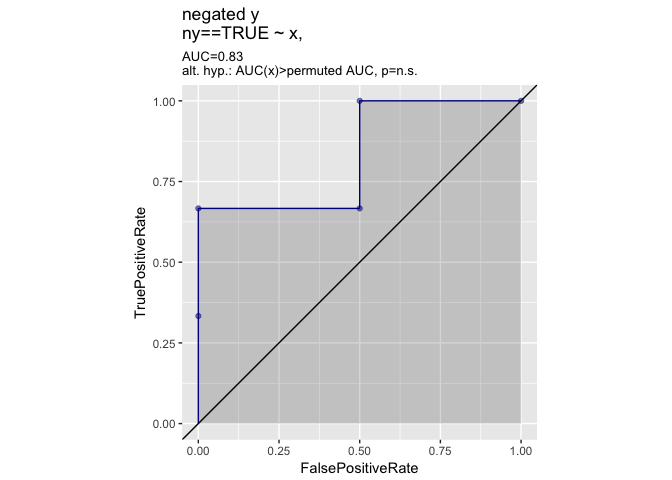
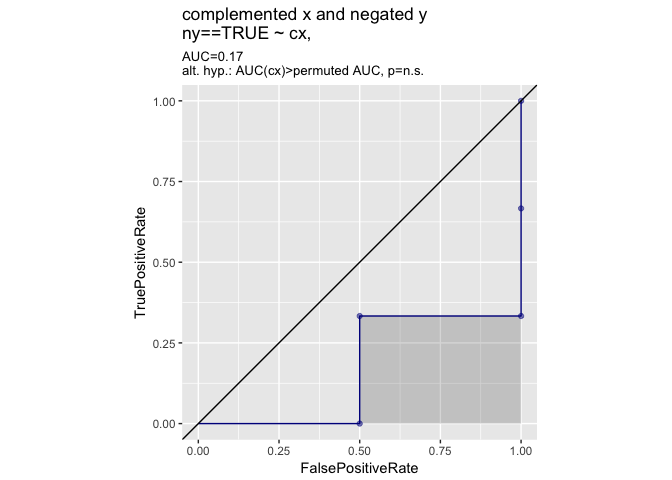
better run

diff --git a/sigr/auc.md b/sigr/auc.md
@@ -67,24 +67,6 @@ The effect
 We are looking at the facts that `AUC(prediction, outcome) + AUC(1-prediction, outcome) == 1` and `AUC(prediction, outcome) + AUC(prediction, !outcome) == 1`.
 
 ``` r
-plotlyROC <- function(predictions, target, title) {
-  rocFrame <- WVPlots::graphROC(predictions, target)
-  plot_ly(rocFrame$pointGraph, x = ~FalsePositiveRate, y = ~TruePositiveRate, 
-        type='scatter', mode='lines+markers', hoverinfo= 'text', 
-        text= ~ paste('threshold:', model, 
-                      '</br>FalsePositiveRate:', FalsePositiveRate,
-                      '</br>TruePositiveRate:', TruePositiveRate)) %>%
-    layout(title= title)
-}
-
-plotlyROC(d$x, d$y, 'interactive version of base plot (when rendered to html)')
-```
-
-<!--html_preserve-->
-
-<script type="application/json" data-for="htmlwidget-8a7b5a583a69569c54dd">{"x":{"layout":{"margin":{"b":40,"l":60,"t":25,"r":10},"title":"interactive version of base plot (when rendered to html)","xaxis":{"domain":[0,1],"title":"FalsePositiveRate"},"yaxis":{"domain":[0,1],"title":"TruePositiveRate"},"hovermode":"closest"},"source":"A","config":{"modeBarButtonsToAdd":[{"name":"Collaborate","icon":{"width":1000,"ascent":500,"descent":-50,"path":"M487 375c7-10 9-23 5-36l-79-259c-3-12-11-23-22-31-11-8-22-12-35-12l-263 0c-15 0-29 5-43 15-13 10-23 23-28 37-5 13-5 25-1 37 0 0 0 3 1 7 1 5 1 8 1 11 0 2 0 4-1 6 0 3-1 5-1 6 1 2 2 4 3 6 1 2 2 4 4 6 2 3 4 5 5 7 5 7 9 16 13 26 4 10 7 19 9 26 0 2 0 5 0 9-1 4-1 6 0 8 0 2 2 5 4 8 3 3 5 5 5 7 4 6 8 15 12 26 4 11 7 19 7 26 1 1 0 4 0 9-1 4-1 7 0 8 1 2 3 5 6 8 4 4 6 6 6 7 4 5 8 13 13 24 4 11 7 20 7 28 1 1 0 4 0 7-1 3-1 6-1 7 0 2 1 4 3 6 1 1 3 4 5 6 2 3 3 5 5 6 1 2 3 5 4 9 2 3 3 7 5 10 1 3 2 6 4 10 2 4 4 7 6 9 2 3 4 5 7 7 3 2 7 3 11 3 3 0 8 0 13-1l0-1c7 2 12 2 14 2l218 0c14 0 25-5 32-16 8-10 10-23 6-37l-79-259c-7-22-13-37-20-43-7-7-19-10-37-10l-248 0c-5 0-9-2-11-5-2-3-2-7 0-12 4-13 18-20 41-20l264 0c5 0 10 2 16 5 5 3 8 6 10 11l85 282c2 5 2 10 2 17 7-3 13-7 17-13z m-304 0c-1-3-1-5 0-7 1-1 3-2 6-2l174 0c2 0 4 1 7 2 2 2 4 4 5 7l6 18c0 3 0 5-1 7-1 1-3 2-6 2l-173 0c-3 0-5-1-8-2-2-2-4-4-4-7z m-24-73c-1-3-1-5 0-7 2-2 3-2 6-2l174 0c2 0 5 0 7 2 3 2 4 4 5 7l6 18c1 2 0 5-1 6-1 2-3 3-5 3l-174 0c-3 0-5-1-7-3-3-1-4-4-5-6z"},"click":"function(gd) { \n        // is this being viewed in RStudio?\n        if (location.search == '?viewer_pane=1') {\n          alert('To learn about plotly for collaboration, visit:\\n https://cpsievert.github.io/plotly_book/plot-ly-for-collaboration.html');\n        } else {\n          window.open('https://cpsievert.github.io/plotly_book/plot-ly-for-collaboration.html', '_blank');\n        }\n      }"}],"modeBarButtonsToRemove":["sendDataToCloud"]},"data":[{"x":[0.333333333333333,0.666666666666667,0.666666666666667,1,1],"y":[0,0,0.5,0.5,1],"mode":"lines+markers","hoverinfo":"text","text":["threshold: 0.948304814752191 \u003c/br>FalsePositiveRate: 0.333333333333333 \u003c/br>TruePositiveRate: 0","threshold: 0.753800751408562 \u003c/br>FalsePositiveRate: 0.666666666666667 \u003c/br>TruePositiveRate: 0","threshold: 0.652560597518459 \u003c/br>FalsePositiveRate: 0.666666666666667 \u003c/br>TruePositiveRate: 0.5","threshold: 0.586745094507933 \u003c/br>FalsePositiveRate: 1 \u003c/br>TruePositiveRate: 0.5","threshold: 0.384469341253862 \u003c/br>FalsePositiveRate: 1 \u003c/br>TruePositiveRate: 1"],"type":"scatter","line":{"fillcolor":"rgba(31,119,180,1)","color":"rgba(31,119,180,1)"},"xaxis":"x","yaxis":"y"}],"base_url":"https://plot.ly"},"evals":["config.modeBarButtonsToAdd.0.click"],"jsHooks":[]}</script>
-<!--/html_preserve-->
-``` r
 WVPlots::ROCPlot(d,'x','y',TRUE,'base plot')
 ```
 
@@ -101,6 +83,12 @@ WVPlots::ROCPlot(d,'x','ny',TRUE,'negated y')
 ```
 
 ![](auc_files/figure-markdown_github/WVPlots-3.png)
+
+``` r
+WVPlots::ROCPlot(d,'cx','ny',TRUE,'complemented x and negated y')
+```
+
+![](auc_files/figure-markdown_github/WVPlots-4.png)
 
 ##### `ModelMetrics`
 
@@ -247,37 +235,37 @@ dTime <- mkData(100)
 ModelMetrics::auc(dTime$y, dTime$x)
 ```
 
-    ## [1] 0.4248
+    ## [1] 0.468888
 
 ``` r
 sigr::calcAUC(dTime$x, dTime$y)
 ```
 
-    ## [1] 0.4248
+    ## [1] 0.468888
 
 ``` r
 aucROCR(dTime$x, dTime$y)
 ```
 
-    ## [1] 0.4248
+    ## [1] 0.468888
 
 ``` r
 aucAUC(dTime$x, dTime$y)
 ```
 
-    ## [1] 0.4248
+    ## [1] 0.468888
 
 ``` r
 aucCaret(dTime$x, dTime$y)
 ```
 
-    ## [1] 0.4248
+    ## [1] 0.468888
 
 ``` r
 pROC::auc(y~x, dTime, direction= '<')
 ```
 
-    ## Area under the curve: 0.4248
+    ## Area under the curve: 0.4689
 
 ``` r
 sizes <- 2^(7:16)
@@ -316,7 +304,7 @@ base_breaks <- function(n = 10){
 }
 
 ggplot(plt, aes(x=size, color=expr, fill=expr)) +
-  geom_point(aes(y=meanTimeS)) +
+  geom_point(aes(y=q2)) +
   geom_line(aes(y=q2)) +
   geom_ribbon(aes(ymin=q1, ymax=q3), alpha=0.3, color=NA) +
   scale_x_log10(breaks= base_breaks()) + 
